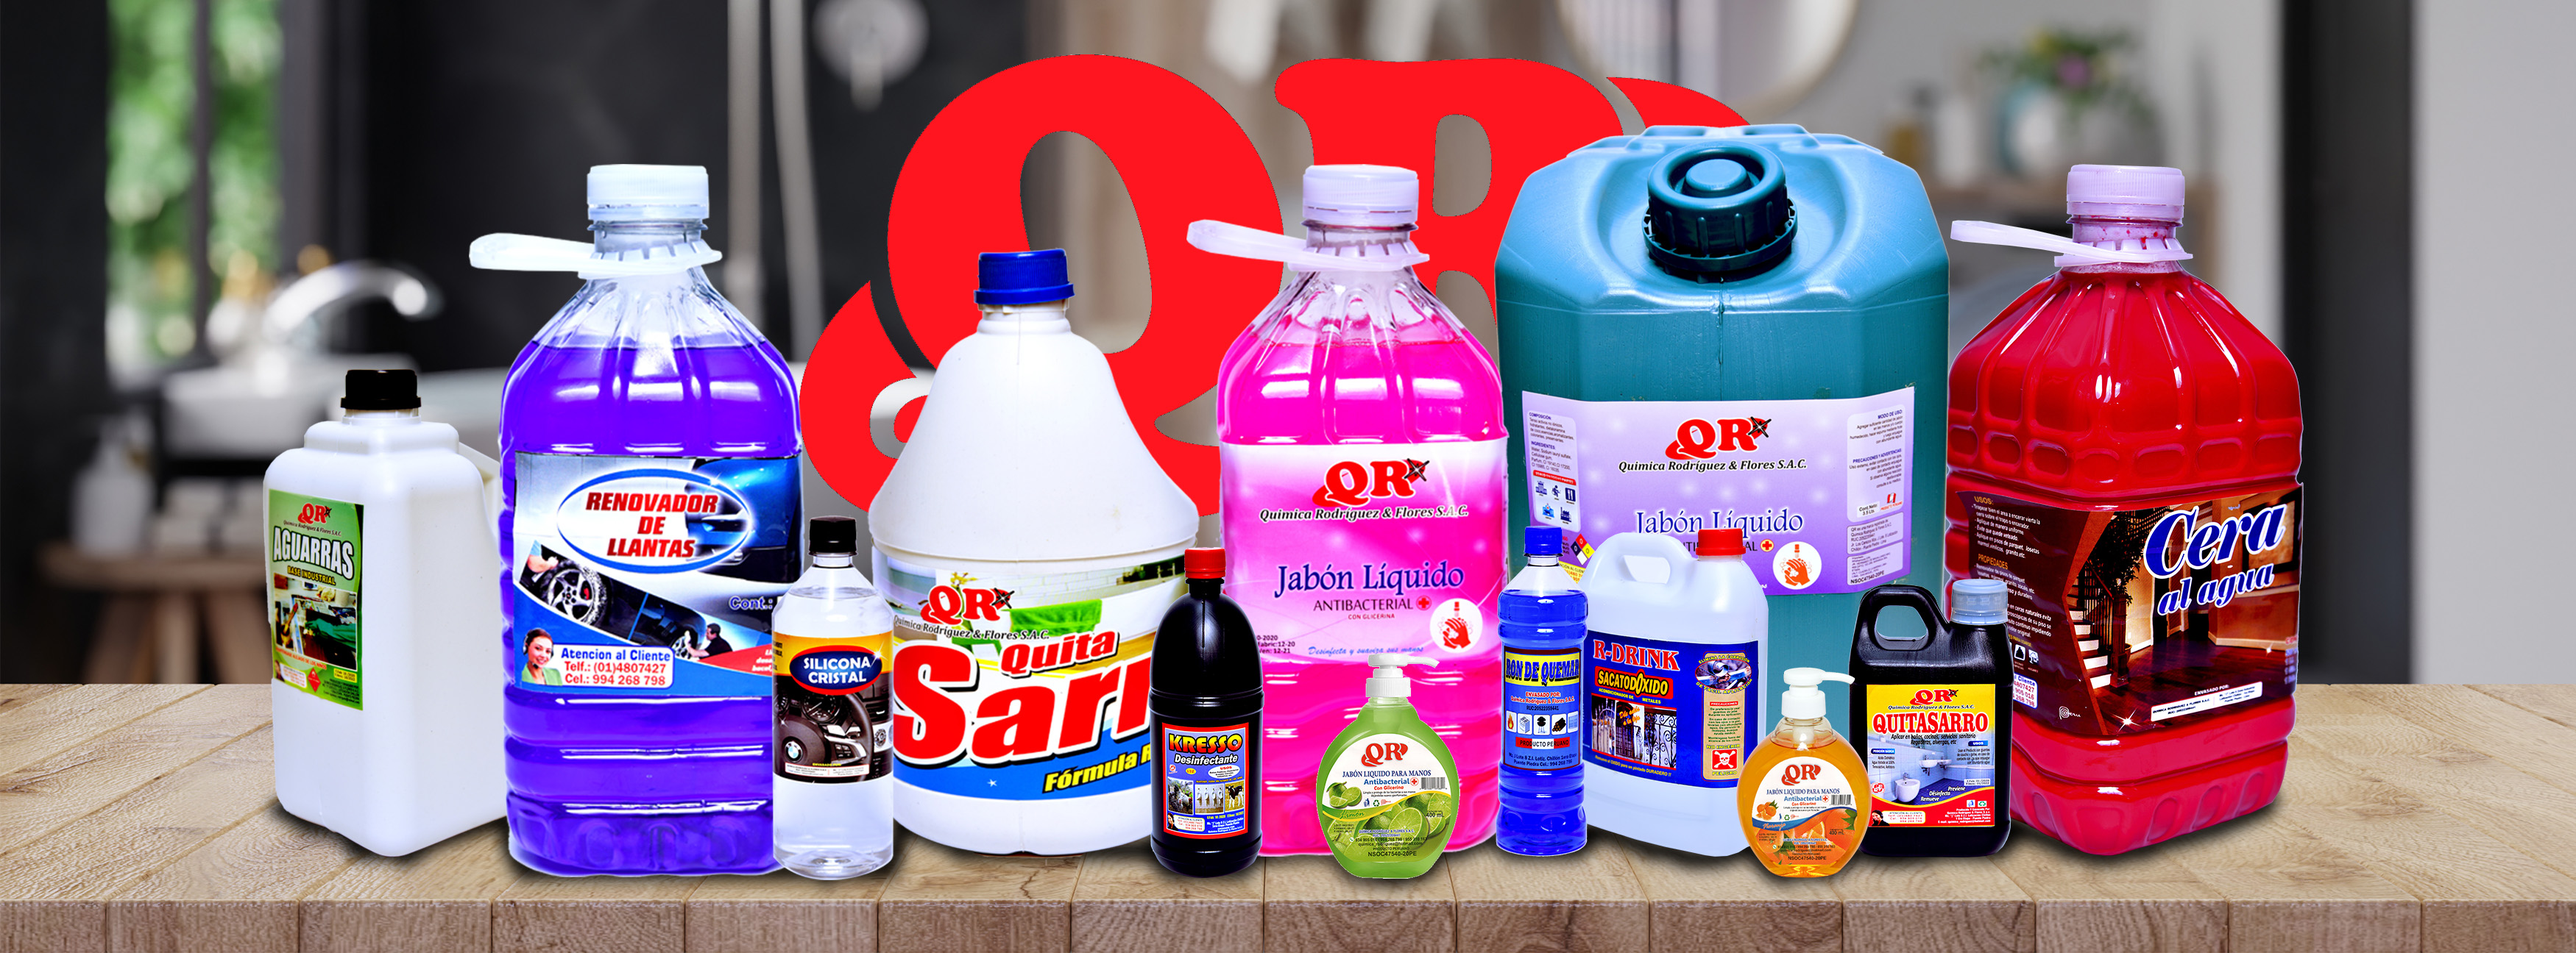
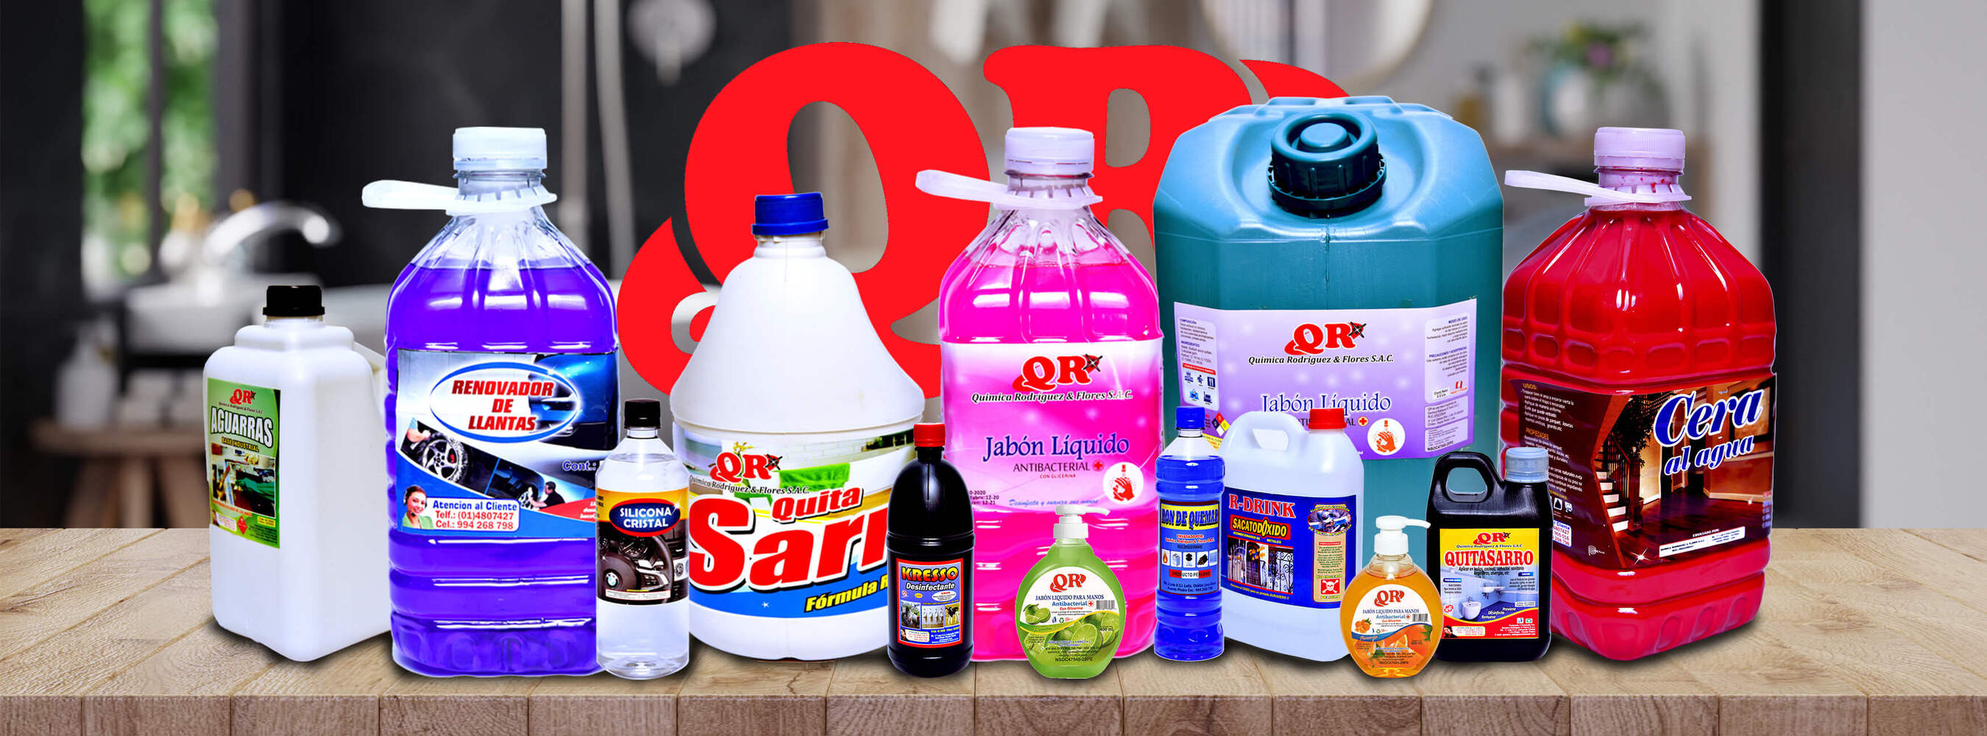
cambio imagen aguarras

diff --git a/src/index.js b/src/index.js
@@ -33,9 +33,8 @@ import imgShampooAlfombra2 from './imagenes/Detergentes/shampoo-para-alfonbras/D
 import imgShampooAuto1 from './imagenes/Detergentes/shampoo-para-auto/DSC_6904.JPG';
 import imgShampooAuto2 from './imagenes/Detergentes/shampoo-para-auto/DSC_7082.JPG';
 
-import imgAguarras1 from './imagenes/Disolventes/aguarras/DSC_6945.JPG';
-import imgAguarras2 from './imagenes/Disolventes/aguarras/DSC_6966.JPG';
-import imgAguarras3 from './imagenes/Disolventes/aguarras/DSC_7094.JPG';
+import imgAguarras1 from './imagenes/Disolventes/aguarras/DSC_6966.JPG';
+import imgAguarras2 from './imagenes/Disolventes/aguarras/DSC_7094.JPG';
 
 import imgBencina1 from './imagenes/Disolventes/bencina/DSC_6976.jpg';
 import imgBencina2 from './imagenes/Disolventes/bencina/DSC_7100.jpg';
@@ -233,6 +232,8 @@ const App = () => {
           tipoProducto="Detergente"
           presentaciones="Bidón, Galón, Litro"
           usos={['Aspire la alfombra, retire todo el polvo de la superficie.', 'Diluya el producto de acuerdo al tipo de limpieza que va a emplear.']}
+          urlPdf="https://drive.google.com/file/d/1dNg8eEnerajK1hQWmxYkKW71JuP3PiHU/view?usp=sharing"
+          urlPdf2="https://drive.google.com/file/d/1IN3HF1uIsxJ2kpLJM5bDxYpVpHlz1t6V/view?usp=sharing"
         />
         <Footer />
         <Whatsapp />
@@ -256,11 +257,11 @@ const App = () => {
 
         <Header />
         <ProductoDetalle tituloProductoDetalle="Aguarras"
-          imagenesSecundarias={[imgAguarras1, imgAguarras2, imgAguarras3]}
+          imagenesSecundarias={[imgAguarras1, imgAguarras2]}
           hola={SliderData6}
           tipoProducto="Disolventes"
           presentaciones="Galón, Litro, Medio litro, Bidón"
-          usos="Dilución y limpieza de pinturas sintéticas."
+          usos={['Dilución y limpieza de pinturas sintéticas.']}
           urlPdf="https://drive.google.com/file/d/1jqXqSN-Y9C-dTFgxTka-7Ly1SI6V97uN/view?usp=sharing"
           urlPdf2="https://drive.google.com/file/d/1SPIjCzqOosRL3QN6rWG2-4vGc3CYvGip/view?usp=sharing"
         />
@@ -494,6 +495,11 @@ const App = () => {
         <ProductoDetalle tituloProductoDetalle="Acidos"
           imagenesSecundarias={[imgAcido1, imgAcido2, imgAcido3, imgAcido4]}
           hola={SliderData20}
+          tipoProducto="Desincrustantes"
+          presentaciones="Botella, Galón, Bidón, Cilindro, Toten"
+          usos={['Producto de limpieza y desinfección (baños, mayólicas, tinas, lavatorios, etc.), capaz de remover manchas de sarro y caliche.',
+            'Se usa también en mantenimiento de aguas y piscinas (regula pH, elimina    algas y limpia mayólicas)',
+            'No usar en baldosas a base de cemento ni mármol.']}
           urlPdf="https://drive.google.com/file/d/16uQ0YyWgDzk4fmJt2JDJymLzWi4JIyJK/view?usp=sharing"
           urlPdf2="https://drive.google.com/file/d/1ap7VtIaDcayII4kfqGGMvLFKvX9vR-C7/view?usp=sharing"
         />
@@ -507,6 +513,10 @@ const App = () => {
         <ProductoDetalle tituloProductoDetalle="Agua para baterias"
           imagenesSecundarias={[imgAguaBaterias1, imgAguaBaterias2]}
           hola={SliderData21}
+          tipoProducto="Desincrustantes"
+          presentaciones="Frasco de 1 L., 1⁄2 L., Galón, Cilindro, Bidón"
+          usos={['Uso automotriz e industrial.',
+            'Uso farmacéutico y doméstico (planchas a vapor, dilución de pinturas de cerámicas, etc.).']}
           urlPdf="https://drive.google.com/file/d/1MtSOz9u-pF1fxksioW9vY4YY6o7DSrEM/view?usp=sharing"
           urlPdf2="https://drive.google.com/file/d/1ZekA216URPntE27mb24I-ZsYw2bB0nI-/view?usp=sharing"
         />
@@ -520,6 +530,9 @@ const App = () => {
         <ProductoDetalle tituloProductoDetalle="Kresso"
           imagenesSecundarias={[imgKresso1, imgKresso2, imgKresso3]}
           hola={SliderData22}
+          tipoProducto="Desincrustantes"
+          presentaciones="Frasco de 1 L., Bidones, Galón"
+          usos={['Uso Industrial, principalmente en pozas de desinfección, granjas, pozos sépticos.']}
           urlPdf="https://drive.google.com/file/d/1TLMx1jVbKdPQlm-8XTUSL6oG7x1KLwub/view?usp=sharing"
           urlPdf2="https://drive.google.com/file/d/1w0fkstIdYv65ZW3UTcFOi5RLh4WVo3no/view?usp=sharing"
         />
@@ -533,6 +546,12 @@ const App = () => {
         <ProductoDetalle tituloProductoDetalle="Quita sarro"
           imagenesSecundarias={[imgQuitaSarro1, imgQuitaSarro2, imgQuitaSarro3, imgQuitaSarro4]}
           hola={SliderData23}
+          tipoProducto="Desincrustantes"
+          presentaciones="Frasco de 1L., 1⁄2 L., Bidón, Galón, Cilindro"
+          usos={['Aplique una pequeña cantidad en el sanitario, deje actuar unos minutos, refriegue y enjuague.',
+            'No se recomienda aplicar sobre partes cromadas, aluminio y fierro.',
+            'No se use en superficies sensibles a los ácidos.',
+            'Lo mejor es si el sarricida se usa frecuentemente.']}
           urlPdf="https://drive.google.com/file/d/1a5eiixx8fpRGX74RCSXbpjsu5KRjTXEs/view?usp=sharing"
           urlPdf2="https://drive.google.com/file/d/1lG-sE9gRnDubo7N6dU5LOujd3XCdd_jP/view?usp=sharing"
         />
@@ -546,6 +565,12 @@ const App = () => {
         <ProductoDetalle tituloProductoDetalle="Silicona cristal"
           imagenesSecundarias={[imgSiliconaCristal1, imgSiliconaCristal2]}
           hola={SliderData24}
+          tipoProducto="Desincrustantes"
+          presentaciones="Frasco de 1L., Medio Litro, Bidón, Galón"
+          usos={['Es un producto versátil, útil tanto para el cuidado y mantenimiento de su vehículo como en el hogar.',
+            'Es un producto versátil, útil tanto para el cuidado y mantenimiento de su vehículo como en el hogar.',
+            'Puede ser usado sobre superficies de fórmica, metales, vinilos, lonas, tableros de auto, etc.'
+          ]}
           urlPdf="https://drive.google.com/file/d/1Tkhdjm8uiIDDN_xmc7TLi4FaAq0S_SXI/view?usp=sharing"
           urlPdf2="https://drive.google.com/file/d/1uknsgyPla7tRqfmWPaMOP8stXCd3bc32/view?usp=sharing"
         />
@@ -559,6 +584,11 @@ const App = () => {
         <ProductoDetalle tituloProductoDetalle="Silicona tablero"
           imagenesSecundarias={[imgSiliconaTablero1, imgSiliconaTablero2]}
           hola={SliderData25}
+          tipoProducto="Desincrustantes"
+          presentaciones="Frasco de 1 Lt, Medio Litro, Bidón, Galón"
+          usos={['Es un producto versátil, útil tanto para el cuidado y mantenimiento de su vehículo como en el hogar.',
+            'Puede ser usado sobre superficies de fórmica, metales, vinilos, lonas, tableros de auto, etc.',
+            'Aplíquese en tableros de autos, equipos de sonido, computadoras y otros.']}
           urlPdf="https://drive.google.com/file/d/1XNdU58v7mEeuNRiRZQl-SyWKYIxlx7bx/view?usp=sharing"
           urlPdf2="https://drive.google.com/file/d/1OGxG08zs-yDEDpCq0nnymnNC-nMzdQmP/view?usp=sharing"
         />
@@ -572,6 +602,10 @@ const App = () => {
         <ProductoDetalle tituloProductoDetalle="Cloro"
           imagenesSecundarias={[imgCloro1, imgCloro2]}
           hola={SliderData26}
+          tipoProducto="Desinfectantes"
+          presentaciones="Bidón, Galón"
+          usos={['El cloro destruye los gérmenes que causan enfermedades y permite que el agua sea segura',
+            'Además de matar gérmenes peligrosos como bacterias, virus y parásitos, el cloro ayuda a reducir los gustos y olores desagradables en el agua']}
         />
         <Footer />
         <Whatsapp />
@@ -583,6 +617,11 @@ const App = () => {
         <ProductoDetalle tituloProductoDetalle="Lejia"
           imagenesSecundarias={[imgLejia1, imgLejia2, imgLejia3]}
           hola={SliderData27}
+          tipoProducto="Desinfectantes"
+          presentaciones=""
+          usos={['Lejía Concentrada, es usada para limpieza y desinfección de superficies inertes, como: pisos, mesas, paredes, baños, duchas. etc.',
+            'Es utilizado como desinfectante de uso de Salud Pública, ya que elimina eficazmente los microorganismos más comunes.']}
+          apariencia="Liquido"
           urlPdf="https://drive.google.com/file/d/1_9K1QklUygg3VeZvk5jyc4Ne8F43DFEG/view?usp=sharing"
           urlPdf2="https://drive.google.com/file/d/1TwdUNv8Rv-FqEBAjx2zvWshrFnPiUIiN/view?usp=sharing"
         />
@@ -596,6 +635,10 @@ const App = () => {
         <ProductoDetalle tituloProductoDetalle="Limpiatodo aroma bebe"
           imagenesSecundarias={[imgLimpiaTodoBebe1, imgLimpiaTodoBebe2]}
           hola={SliderData28}
+          tipoProducto="Desinfectantes"
+          presentaciones="Frasco de 1 L., Bidones, Galón"
+          usos={['Diluya 1/4 de taza en un balde con 3 litros de agua',
+            ' No necesita enjuagar.']}
           urlPdf="https://drive.google.com/file/d/1ih0MGeP49pZC_RpUBcWAKOZzJnw325RI/view?usp=sharing"
           urlPdf2="https://drive.google.com/file/d/1WebfKCbC9d6yH49uTPNmDZuV8v1U7MPj/view?usp=sharing"
         />
@@ -609,6 +652,10 @@ const App = () => {
         <ProductoDetalle tituloProductoDetalle="Limpiatodo aroma lavanda"
           imagenesSecundarias={[imgLimpiaTodoLavanda1, imgLimpiaTodoLavanda2]}
           hola={SliderData29}
+          tipoProducto="Desinfectantes"
+          presentaciones="Frasco de 1 L., Bidones, Galón"
+          usos={['Diluya 1/4 de taza en un balde con 3 litros de agua',
+            ' No necesita enjuagar.']}
           urlPdf="https://drive.google.com/file/d/1ih0MGeP49pZC_RpUBcWAKOZzJnw325RI/view?usp=sharing"
           urlPdf2="https://drive.google.com/file/d/1WebfKCbC9d6yH49uTPNmDZuV8v1U7MPj/view?usp=sharing"
         />
@@ -622,6 +669,13 @@ const App = () => {
         <ProductoDetalle tituloProductoDetalle="Pino"
           imagenesSecundarias={[imgPino1, imgPino2]}
           hola={SliderData30}
+          tipoProducto="Desinfectantes"
+          presentaciones="1 L., Galón, Bidón, Cilindro"
+          usos={['Aplique en forma uniforme con la ayuda de una esponja para paredes o con un trapeador para pisos, y deje secar durante cinco minutos',
+            'Para los lugares más grasosos aplique directamente.',
+            'Puede ser utilizado en pisos, baños, vidrios y paredes.']}
+          apariencia="Liquido"
+          colores="Verde"
           urlPdf="https://drive.google.com/file/d/1tU43CnLnuHjb-mCW-nPTvvLL1VqImgh0/view?usp=sharing"
           urlPdf2="https://drive.google.com/file/d/1sHPuK28odYcpc2lb3FPlYCpZsgecCmBM/view?usp=sharing"
         />
@@ -635,6 +689,9 @@ const App = () => {
         <ProductoDetalle tituloProductoDetalle="Potente desinfectante"
           imagenesSecundarias={[imgPotenteDesinfectante1, imgPotenteDesinfectante2]}
           hola={SliderData31}
+          tipoProducto="Desinfectantes"
+          presentaciones="Bidón, Galón"
+          usos={['Se puede utilizar en todo tipo de superficies lavables: lavabos, bañeras, bidés, inodoros, duchas']}
         />
         <Footer />
         <Whatsapp />

diff --git a/src/componentes/Productos.js b/src/componentes/Productos.js
@@ -9,7 +9,7 @@ import imgRonQuemar from './../imagenes/Limpiadores/ron-de-quemar/DSC_6953.JPG';
 import imgJabonLiquido from './../imagenes/Detergentes/jabon-liquido/DSC_6910.JPG';
 import imgShampooAlfombra from './../imagenes/Detergentes/shampoo-para-alfonbras/DSC_6923.JPG';
 import imgShampooAuto from './../imagenes/Detergentes/shampoo-para-auto/DSC_6904.JPG';
-import imgAguarras from './../imagenes/Disolventes/aguarras/DSC_6945.JPG';
+import imgAguarras from './../imagenes/Disolventes/aguarras/DSC_6966.JPG';
 import imgBencina from './../imagenes/Disolventes/bencina/DSC_6976.jpg';
 import imgThinnerAcrilico from './../imagenes/Disolventes/thinner-acrilico/DSC_6951.jpg';
 import imgAmbientadorBebe from './../imagenes/Perfumadores/ambientador-bebe/DSC_6892.jpg';
@@ -212,7 +212,7 @@ const Productos = () => {
 
                     nombre2="Agua para baterias"
                     imagen2={imgAguaBaterias}
-                    presentaciones2={['Frasco de 1 L.','1⁄2 L.','Galón','Cilindro','Bidón']}
+                    presentaciones2={['Frasco de 1 L.','Frasco 1⁄2 L.','Galón','Cilindro','Bidón']}
                     descripcion2="Es un producto que resulta de un eficiente tratamiento químico que
                     elimina el contenido de minerales e impurezas."
 
@@ -224,7 +224,7 @@ const Productos = () => {
 
                     nombre4="Quitasarro"
                     imagen4={imgQuitasarro}
-                    presentaciones4={['Frasco de 1L., 1⁄2 L.','Bidón','Galón','Cilindro']}
+                    presentaciones4={['Frasco de 1L.','Frasco 1⁄2 L.','Bidón','Galón','Cilindro']}
                     descripcion4="Desinfectante para limpieza y desinfección de instalaciones
                     pecuarias, limpieza doméstica, baños públicos, restaurantes, hoteles, hospitales."
 

diff --git a/src/componentes/SliderData.js b/src/componentes/SliderData.js
@@ -20,9 +20,8 @@ import imgShampooAlfombra2 from './../imagenes/Detergentes/shampoo-para-alfonbra
 import imgShampooAuto1 from './../imagenes/Detergentes/shampoo-para-auto/DSC_6904.JPG';
 import imgShampooAuto2 from './../imagenes/Detergentes/shampoo-para-auto/DSC_7082.JPG';
 
-import imgAguarras1 from './../imagenes/Disolventes/aguarras/DSC_6945.JPG';
-import imgAguarras2 from './../imagenes/Disolventes/aguarras/DSC_6966.JPG';
-import imgAguarras3 from './../imagenes/Disolventes/aguarras/DSC_7094.JPG';
+import imgAguarras1 from './../imagenes/Disolventes/aguarras/DSC_6966.JPG';
+import imgAguarras2 from './../imagenes/Disolventes/aguarras/DSC_7094.JPG';
 
 import imgBencina1 from './../imagenes/Disolventes/bencina/DSC_6976.jpg';
 import imgBencina2 from './../imagenes/Disolventes/bencina/DSC_7100.jpg';
@@ -198,10 +197,6 @@ export const SliderData6 = [
   {
     image:
       imgAguarras2
-  },
-  {
-    image:
-      imgAguarras3
   },
 ];
 

diff --git a/src/componentes/Servicios.js b/src/componentes/Servicios.js
@@ -5,10 +5,10 @@ const Servicios = () => {
     return ( 
         <article className="servicios">
             <div className="servicios__wrap wrap">
-                <ServiciosCard icono={faTruck} titulo="Envío gratis" descripcion="Por compras mayores a S/100"/>
+                <ServiciosCard icono={faTruck} titulo="Envío gratis" descripcion="Por compras mayores a S/300"/>
                 <ServiciosCard icono={faLeaf} titulo="Cuidado ambiental" descripcion="Con aditivos biodegradables"/>
                 <ServiciosCard icono={faHeadset} titulo="Asesoría técnica 360" descripcion="Asesoría para cada cliente"/>
-                <ServiciosCard icono={faWallet} titulo="Pago seguro" descripcion="Comprar aquí es 100% seguro"/>
+                <ServiciosCard icono={faWallet} titulo="Pago seguro" descripcion="Comprar aquí es 100% seguro" cuentas={true}/>
             </div>
         </article>
      );

diff --git a/src/scss/componentes/productoDetalle.scss b/src/scss/componentes/productoDetalle.scss
@@ -10,7 +10,7 @@
     align-items: center;
     border-radius: var(--borderRadius);
     .slider {
-        svg{
+        svg {
             top: 40%;
             font-size: 53px;
             cursor: pointer;
@@ -63,6 +63,9 @@
     border-radius: var(--borderRadius);
 }
 
+.caracteristicas__producto{
+    margin-top: 12px;
+}
 .caracteristicas__producto__izq {
     padding: 5px 10px;
     width: 100%;
@@ -72,9 +75,9 @@
 .caracteristicas__producto__der {
     padding: 5px 10px;
     width: 100%;
-    .usos{
+    .usos {
         list-style: square;
-        li{
+        li {
             text-align: left;
             margin: 4px 0;
         }
@@ -115,8 +118,11 @@
     background: #db5657;
     align-items: center;
     width: 250px;
-    justify-content: center;
+    justify-content: left;
     margin-top: 20px;
+}
+.boton.boton-pdf {
+    padding: 15px 14px;
 }
 
 .boton-pdf .ic-pdf {

diff --git a/src/componentes/ServiciosCard.js b/src/componentes/ServiciosCard.js
@@ -2,12 +2,21 @@ import React from 'react';
 import { FontAwesomeIcon } from '@fortawesome/react-fontawesome';
 
 
-const ServiciosCard = ({icono,titulo,descripcion}) => {
+const ServiciosCard = ({ icono, titulo, descripcion, cuentas }) => {
     return (
         <div className="servicios__card">
-            <FontAwesomeIcon className="servicios__card__icono" icon={icono}/>
+            <FontAwesomeIcon className="servicios__card__icono" icon={icono} />
             <h3>{titulo}</h3>
             <p>{descripcion}</p>
+            {(cuentas) ?
+                <ul>
+                    <li><b>Cuenta BCP :</b> 191-2580260-0-31</li>
+                    <li><b>Cuenta BBVA  :</b> 03120100019538</li>
+                    <li><b>Cci:</b> 001131200010001953866</li>
+                </ul>
+                :
+                <></>
+            }
         </div>);
 }
 

diff --git a/src/scss/componentes/servicios.scss b/src/scss/componentes/servicios.scss
@@ -27,6 +27,12 @@
                 text-transform: capitalize;
                 color: rgb(128, 128, 128);
             }
+            ul{
+                color: gray;
+                margin-top: 5px;
+                list-style: disc;
+                text-align: left;
+            }
         }
     }
 }
@@ -37,7 +43,7 @@
         .servicios__wrap {
             flex-direction: row;
             .servicios__card {
-                margin: 0 14px;
+                margin: 0 8px;
                 .servicios__card__icono {
                     font-size: 40px;
                 }

diff --git a/src/componentes/Contacto.js b/src/componentes/Contacto.js
@@ -19,7 +19,7 @@ const Contacto = () => {
                             </div>
                             <div className="contacto__datos__item">
                                 <h5>Teléfono</h5>
-                                <p>999888777</p>
+                                <p>994 268 798</p>
                             </div>
                             <div className="contacto__datos__item">
                                 <h5>Correo</h5>

diff --git a/src/componentes/Whatsapp.js b/src/componentes/Whatsapp.js
@@ -4,7 +4,7 @@ import imgWsp from '../imagenes/wsp.png';
 const Whatsapp = () => {
     return (
         <div className="container-wsp">
-            <a href="https://wa.me/51921920359?text=Hola" >
+            <a href="wa.link/ksab6h" >
                 <img className="wsp" src={imgWsp} alt="" />
             </a>
         </div>

diff --git a/src/scss/componentes/responsive.scss b/src/scss/componentes/responsive.scss
@@ -104,7 +104,7 @@
         width: 48%;
     }
     .boton-pdf {
-        width: 300px !important;
+        width: 340px !important;
     }
 }
 /* Large devices (desktops, 992px and up) */

diff --git a/src/scss/componentes/whatsapp.scss b/src/scss/componentes/whatsapp.scss
@@ -1,5 +1,5 @@
 .container-wsp {
-    background-color: #2e6329;
+    background-color: #000;
     border: 1px solid #fff;
     position: fixed;
     z-index: 999;
